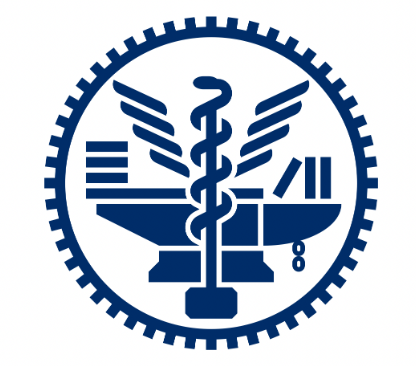
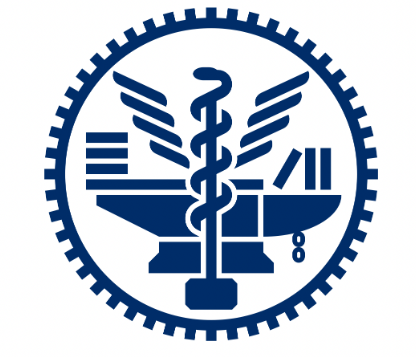
update

Changed region(s): [[0.0938, 0.0, 0.9062, 0.9552], [0.5938, 0.9244, 0.625, 0.9552]]

diff --git a/NYCU_tt/templates/base.html b/NYCU_tt/templates/base.html
@@ -10,19 +10,21 @@
 
     <title>NYCU++</title>
   </head>
+
   <nav class="navbar navbar-expand-lg bg-body-tertiary">
-  <div class="container-fluid">
-      <a class="navbar-brand" href="{% url 'home' %}">
-        {% load static %}
-        <img src="{% static 'NYCU.png'%}" alt="Logo" width="55" height="50" class="d-inline-block align-text-top">
-      </a>
-      <div class="nav justify-content-center" id="navbarNav">
+  <div class="container-fluid p-3 text-primary-emphasis bg-primary-subtle border border-primary-subtle rounded-3">
+    <a class="navbar-brand" href="{% url 'home' %}">
+      {% load static %}
+      <img src="{% static 'NYCU.png'%}" alt="Logo" width="70" height="65" class="d-inline-block align-text-top">
+    </a>
+    <h1>NYCU++</h1>
+      <div class="collapse navbar-collapse justify-content-end" id="navbarNav">
         <ul class="navbar-nav">
           <li class="nav-item">
             <a class="nav-link active" aria-current="page" href="{% url 'home' %}">Home</a>
           </li>
           <li class="nav-item">
-            <a class="nav-link" href="{% url 'insert' %}">Add Comment</a>
+            <a class="nav-link" href="{% url 'insert' %}">AddComment</a>
           </li>
         </ul>
       </div>

diff --git a/NYCU_tt/templates/search/detail.html b/NYCU_tt/templates/search/detail.html
@@ -15,6 +15,8 @@
   <br/>
   <li><strong>時間 : </strong> {{ detail.course.time }}</li>
   <br/>
+  <li><strong>開課單位 : </strong> {{ detail.course.college }}</li>
+  <br/>
   <li><strong>學分 : </strong> {{ detail.course.credit }}</li>
   <br/>
   <li><strong>評分方式 : </strong> {{ detail.gradingpolicy }}</li>
